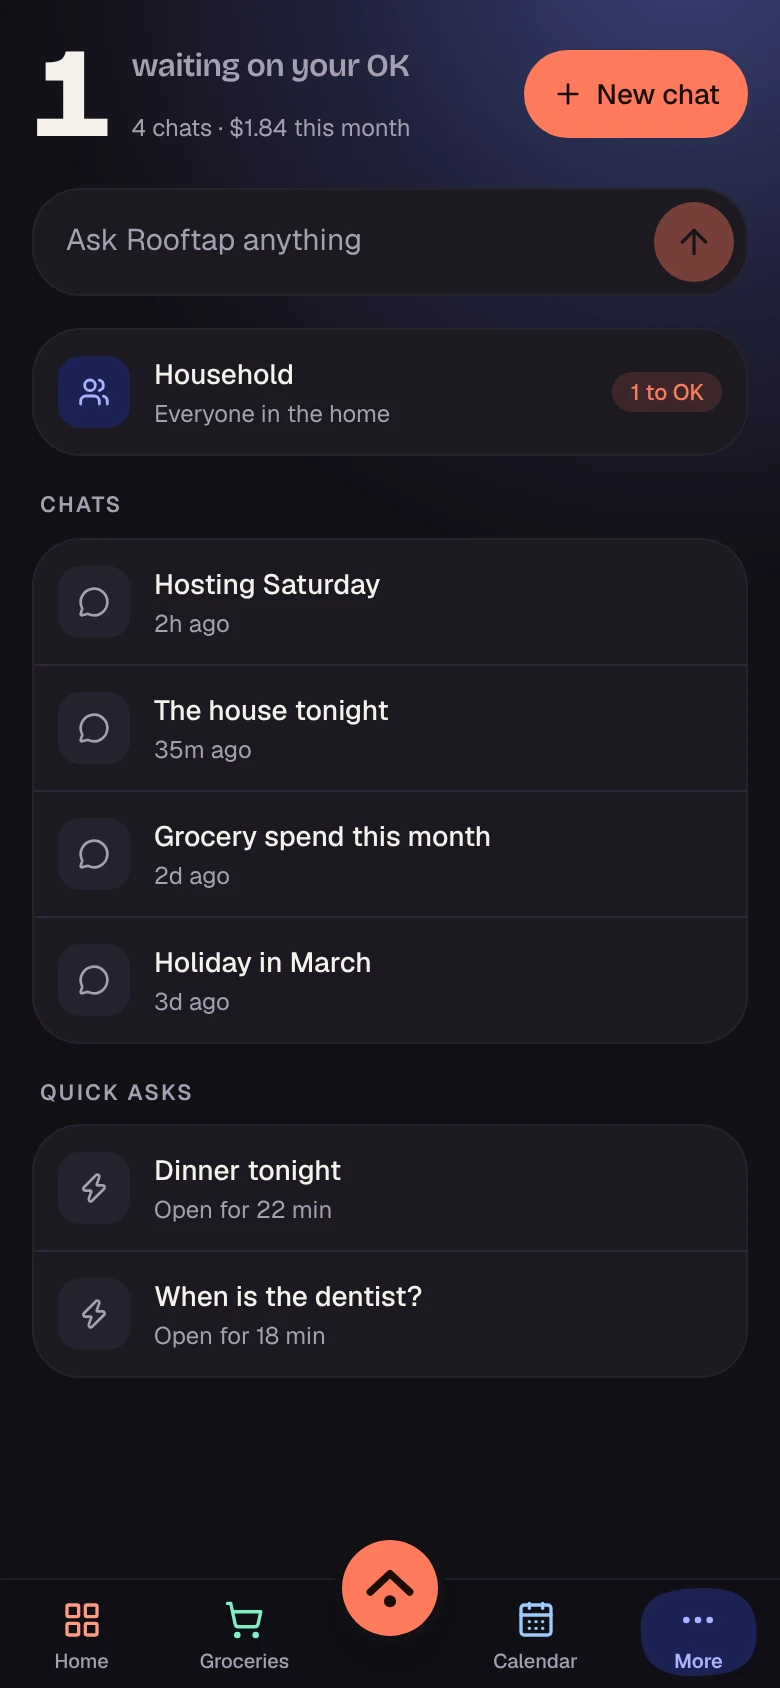
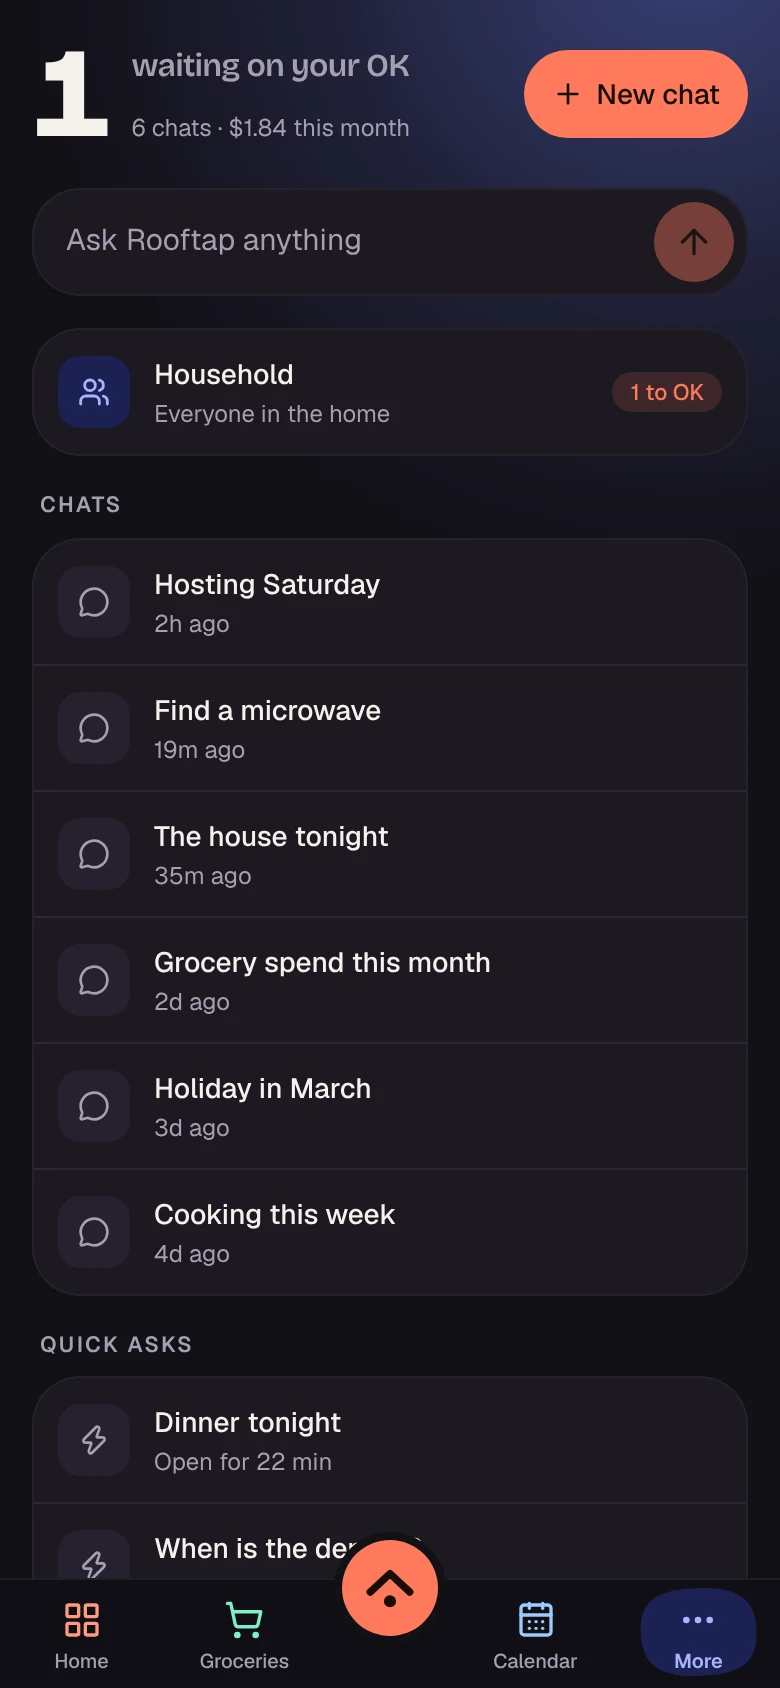
Sync from upstream 89a2d52

diff --git a/apps/web/landing-static/demo/fixtures.ts b/apps/web/landing-static/demo/fixtures.ts
@@ -26,6 +26,7 @@ import type {
   ShopperOffer,
   ShopperPick,
   ShopperPriceSnapshot,
+  ScoutMessage,
   ShopperSearch,
   ShopperWant,
   UserSettings,
@@ -840,6 +841,7 @@ export const assistantConversations: AssistantConversation[] = [
   conv("conv-holiday", "chat", "Holiday in March", 3 * 24 * 60),
   conv("conv-spend", "chat", "Grocery spend this month", 2 * 24 * 60),
   conv("conv-week", "chat", "Cooking this week", 4 * 24 * 60),
+  conv("conv-microwave", "chat", "Find a microwave", 19),
   // Quick asks still open, so each one shows its answer and takes a follow-up.
   conv("conv-dinner", "quick", "Dinner tonight", 8, { closes_at: minutesFromNow(22) }),
   conv("conv-dentist", "quick", "When is the dentist?", 12, { closes_at: minutesFromNow(18) }),
@@ -956,6 +958,82 @@ const dentistChat: AssistantMessage[] = [
   msg("q-2", "assistant", 12, `**Dentist** is on ${new Date(now.getTime() + 2 * 86_400_000).toLocaleDateString("en-AU", { weekday: "long" })} at 2:30 PM. Travel is about 28 minutes, so leave by 2 PM.`),
 ];
 
+// ── Scout thread ─────────────────────────────────────────────────────────────
+// A microwave brief the Assistant started, a question, then a change that
+// searched again. Its own run so the TV run's frames stay as they are.
+
+/** The Scout run the Assistant started: two picks, both over the $120 budget. */
+export const scoutMicrowave: ShopperSearch = {
+  id: "scout-mw",
+  group_id: GROUP,
+  brief: { text: "A 25 litre microwave for reheating and defrosting", budget_min_cents: null, budget_max_cents: 12000, need_by: null, where: ["nearby", "online"] },
+  status: "done",
+  error: null,
+  stores_checked: 15,
+  key_source: "household",
+  created_by: AVA,
+  created_at: minutesAgo(19),
+  updated_at: minutesAgo(18),
+  finished_at: minutesAgo(18),
+  thread_id: null,
+  deleted: false,
+};
+
+/** The run Scout started when Ava changed the search. */
+export const scoutMicrowaveGrill: ShopperSearch = {
+  ...scoutMicrowave,
+  id: "scout-mw-2",
+  brief: { ...scoutMicrowave.brief, text: "A 25 litre microwave with a grill, for reheating and defrosting", budget_max_cents: 16000 },
+  stores_checked: 12,
+  created_at: minutesAgo(4),
+  updated_at: minutesAgo(3),
+  finished_at: minutesAgo(3),
+  thread_id: "scout-mw",
+};
+
+const mwPick = (search: ShopperSearch, rank: number, label: string, title: string, why: string, cents: number, store: string, extra: Partial<ShopperPick> = {}): ShopperPick => ({
+  ...pick(rank, label, title, why, cents, store, extra),
+  id: `pick-${search.id}-${rank}`,
+  search_id: search.id,
+  created_at: search.created_at,
+  updated_at: search.created_at,
+});
+
+export const scoutMicrowavePicks: ShopperPick[] = [
+  mwPick(scoutMicrowave, 1, "best value", "LG NeoChef 25L Smart Inverter", "The closest to the budget, with even inverter defrosting. It is $25 over.", 14500, "Go Get Appliances", { stretch: true }),
+  mwPick(scoutMicrowave, 2, "other brand", "Panasonic NN-ST34NB 25L 900W", "A current model from a well regarded brand. It is $39 over, so choose it only if brand matters more than price.", 15900, "DMS Appliances", { stretch: true }),
+  mwPick(scoutMicrowaveGrill, 1, "best value", "Sharp 25L Grill Microwave", "25 litres with a grill, and in stock nearby. $21 under the new budget.", 13900, "Bing Lee"),
+  mwPick(scoutMicrowaveGrill, 2, "best grill", "Panasonic NN-GT35NB 23L Grill", "The best grill of the three, a little smaller at 23 litres.", 14800, "JB Hi-Fi"),
+  mwPick(scoutMicrowaveGrill, 3, "biggest", "LG NeoChef 39L Smart Inverter Grill", "The biggest, for whole dinner plates and casserole dishes.", 15900, "Harvey Norman", { in_stock: null }),
+];
+
+export const scoutMicrowaveMessages: ScoutMessage[] = [
+  { id: "sm-1", group_id: GROUP, thread_id: "scout-mw", role: "user", text: "Why is there nothing under $120?", pick_id: null, search_id: null, created_by: AVA, created_at: minutesAgo(9), updated_at: minutesAgo(9), deleted: false },
+  {
+    id: "sm-2",
+    group_id: GROUP,
+    thread_id: "scout-mw",
+    role: "scout",
+    text: "The cheapest 25 litre inverter microwaves start at $139 today. Under $120 I only found 20 litre models. If 20 litres is fine I can search for those. Otherwise pick 1 is the closest at $145.",
+    pick_id: null,
+    search_id: null,
+    created_by: AVA,
+    created_at: minutesAgo(8),
+    updated_at: minutesAgo(8),
+    deleted: false,
+  },
+  { id: "sm-3", group_id: GROUP, thread_id: "scout-mw", role: "user", text: "OK, go up to $160, but it needs a grill", pick_id: null, search_id: null, created_by: AVA, created_at: minutesAgo(5), updated_at: minutesAgo(5), deleted: false },
+  { id: "sm-4", group_id: GROUP, thread_id: "scout-mw", role: "scout", text: "Searching again: up to $160, with a grill.", pick_id: null, search_id: "scout-mw-2", created_by: AVA, created_at: minutesAgo(4), updated_at: minutesAgo(4), deleted: false },
+];
+
+/** A named chat where Ava asked the Assistant to find a microwave, and it started Scout. */
+const microwaveChat: AssistantMessage[] = [
+  msg("k-1", "user", 20, "Can you find us a microwave? About 25 litres, under $120.", { author: "Ava" }),
+  msg("k-2", "assistant", 19, "I asked Scout to look. It checks your stores and comes back in about a minute with up to three picks. [Open Scout](/shopper/scout/scout-mw)", {
+    proposal: proposal("confirmed", [["start_scout", "shopper", { text: "A 25 litre microwave" }, 'Ask Scout to find "A 25 litre microwave"']]),
+  }),
+];
+
 /** Each conversation's messages, by conversation id. */
 export const assistantMessages: Record<string, AssistantMessage[]> = {
   "conv-household": householdThread,
@@ -966,6 +1044,7 @@ export const assistantMessages: Record<string, AssistantMessage[]> = {
   "conv-dinner": dinnerChat,
   "conv-dentist": dentistChat,
   "conv-week": weekChat,
+  "conv-microwave": microwaveChat,
 };
 
 /** Home Assistant, connected through its MCP Server integration, under Act. */

diff --git a/apps/web/landing-static/demo/fetch-shim.ts b/apps/web/landing-static/demo/fetch-shim.ts
@@ -4,6 +4,10 @@ import { chat, decide, getConversation, listConversations, updateConversation } 
 import {
   homeAssistantStatus,
   homeAssistantTools,
+  scoutMicrowave,
+  scoutMicrowaveGrill,
+  scoutMicrowaveMessages,
+  scoutMicrowavePicks,
   scoutPicks,
   shopperWants,
   scoutSearch,
@@ -43,7 +47,7 @@ function scoutFollowUp(url: URL, init?: RequestInit) {
 
 /** Watch the price on a demo pick: the item it is already on, or a new one shaped like it. */
 function scoutWatch(pickId: string) {
-  const pick = scoutPicks.find((p) => p.id === pickId);
+  const pick = [...scoutPicks, ...scoutMicrowavePicks].find((p) => p.id === pickId);
   const known = shopperWants.find((w) => w.id === pick?.want_id);
   const tv = shopperWants.find((w) => w.id === "w-tv")!;
   return { want: known ?? { ...tv, id: `w-${pickId}`, title: pick?.title ?? tv.title, query: pick?.title ?? tv.title, notes: pick?.why ?? null } };
@@ -143,6 +147,14 @@ const answers: [RegExp, Answer][] = [
   [/^\/api\/shopper\/scout\/picks\//, (url) => scoutWatch(url.pathname.split("/").pop() ?? "")],
   [/^\/api\/shopper\/scout\/[^/]+\/messages/, scoutFollowUp],
   [/^\/api\/shopper\/scout\/scout-tv/, () => ({ search: scoutSearch, picks: scoutPicks })],
+  [
+    /^\/api\/shopper\/scout\/scout-mw/,
+    () => ({
+      search: scoutMicrowave,
+      picks: scoutMicrowavePicks.filter((p) => p.search_id === scoutMicrowave.id),
+      thread: { runs: [scoutMicrowave, scoutMicrowaveGrill], picks: scoutMicrowavePicks, messages: scoutMicrowaveMessages },
+    }),
+  ],
   [/^\/api\/shopper\/lookup/, () => ({ offers: 5, sources: ["serpapi-google-shopping"], failed: [] })],
   // Assistant.
   [/^\/api\/assistant\/status/, () => assistantStatus],

diff --git a/apps/web/src/components/landing/module-map-data.ts b/apps/web/src/components/landing/module-map-data.ts
@@ -7,7 +7,7 @@ import type { ScreenId } from "./screens";
 // module-map-data.test.ts fails when a two-module feature has no line here,
 // or a line names a feature that does not join its two modules.
 
-export type MapModule = Exclude<ModuleId, "assistant" | "mcp">;
+export type MapModule = Exclude<ModuleId, "mcp">;
 
 /** Short names: the map has no room for "Tasks & Reminders". */
 export const MAP_LABEL: Record<MapModule, string> = {
@@ -23,6 +23,7 @@ export const MAP_LABEL: Record<MapModule, string> = {
   shopper: "Shopper",
   rewards: "Rewards",
   "google-calendar": "Google Calendar",
+  assistant: "Assistant",
 };
 
 /** The section whose hue a module's tile takes. */
@@ -44,6 +45,7 @@ export const POS: Record<MapModule, { wide: [number, number]; tall: [number, num
   rewards: { wide: [130, 420], tall: [62, 530] },
   groceries: { wide: [400, 420], tall: [62, 360] },
   recipes: { wide: [650, 420], tall: [180, 530] },
+  assistant: { wide: [290, 330], tall: [62, 262] },
 };
 
 export interface MapShot {
@@ -146,6 +148,16 @@ export const MAP_LINKS: readonly MapLink[] = [
     features: ["shopper.costs"],
     text: "Plan to buy on a Shopper item adds a planned one-off cost to the budget.",
     shots: [{ scene: "shopper-item-buy", mark: "plan" }],
+  },
+  {
+    a: "assistant",
+    b: "shopper",
+    features: ["shopper.assistant-scout"],
+    text: "Ask the Assistant to find something and it starts a Scout search. On the search you ask about a pick or change what you want, and new picks land below.",
+    shots: [
+      { scene: "assistant-scout", mark: "open" },
+      { scene: "shopper-scout-thread", mark: "again" },
+    ],
   },
   {
     a: "calendar",

diff --git a/apps/web/src/components/landing/screens.ts b/apps/web/src/components/landing/screens.ts
@@ -44,12 +44,14 @@ export const SCREEN_IDS = [
   "shopper-scout-list",
   "shopper-scout",
   "shopper-scout-pick",
+  "shopper-scout-thread",
   "rewards",
   "rewards-store",
   "rewards-card",
   "rewards-perks",
   "assistant",
   "assistant-household",
+  "assistant-scout",
   "assistant-telegram",
   "assistant-house",
   "assistant-hosting",
@@ -109,6 +111,8 @@ export const SCREEN_ALT: Record<ScreenId, string> = {
   "shopper-scout-list": "The Shopper screen scrolled to its Scout runs: a TV for the lounge, three picks",
   "shopper-scout": "A Scout run for a lounge TV under 2,000 dollars: 14 stores checked, three picks with their role, store, stock and price",
   "shopper-scout-pick": "The best value pick: a Hisense 65 inch TV at JB Hi-Fi for 1,495 dollars, why it fits, its sources, and Watch the price",
+  "shopper-scout-thread": "A Scout thread for a microwave: Ava asks why nothing is under 120 dollars, Scout answers, then she raises the budget to 160 and asks for a grill, and three new picks follow",
+  "assistant-scout": "An Assistant chat: Ava asks it to find a 25 litre microwave under 120 dollars, and it starts a Scout search with a link to open it",
   rewards: "Rewards: four cards as card faces, Costco, Everyday Rewards, Flybuys and IKEA Family, that work at 12 stores, with a store search on top",
   "rewards-store": "Rewards looked up for Officeworks: Flybuys works there with 10 percent off, and a Show Flybuys card button",
   "rewards-card": "The Flybuys card: its barcode and number, its perks at Officeworks and Kmart, and its 6 stores",

diff --git a/apps/web/landing-static/demo/scenes.tsx b/apps/web/landing-static/demo/scenes.tsx
@@ -302,6 +302,21 @@ export const SCENES: Scene[] = [
     actions: [{ click: "text=Hisense 65" }, { wait: 700 }],
     marks: { watch: "text=Watch the price", why: "text=Bright enough for a sunny room" },
   },
+  // A Scout thread: a question answered, then a change that searched again.
+  {
+    id: "shopper-scout-thread",
+    path: "/shopper/scout/scout-mw",
+    params: { id: "scout-mw" },
+    page: ScoutRun,
+    actions: [{ scroll: 2000 }, { wait: 400 }],
+    marks: {
+      ask: ["text=Why is there nothing under $120?", 1],
+      answer: "text=/cheapest 25 litre/",
+      again: "text=Searching again",
+      grill: '[class*="list-item"]:has-text("Sharp 25L")',
+      composer: "textarea",
+    },
+  },
 
   // Rewards: the wallet, a store lookup, the card at the till, and the perks.
   {
@@ -364,6 +379,14 @@ export const SCENES: Scene[] = [
     page: AssistantThread,
     actions: [{ scroll: 2000 }, { wait: 400 }],
     marks: { garage: ["text=Turn off \"Garage door\" in Home Assistant", 1], porch: ["text=Turn on \"Porch light\" in Home Assistant", 3], ask: ["text=Turn on the porch light", 1] },
+  },
+  // A named chat where the assistant started a Scout search.
+  {
+    id: "assistant-scout",
+    path: "/assistant/conv-microwave",
+    params: { id: "conv-microwave" },
+    page: AssistantThread,
+    marks: { ask: ["text=Can you find us a microwave", 1], scout: ["text=Ask Scout to find", 3], open: 'p:has-text("I asked Scout to look")' },
   },
   // A named chat that planned Saturday across Recipes, Checklists and Tasks.
   {

diff --git a/apps/web/src/components/landing/stories.tsx b/apps/web/src/components/landing/stories.tsx
@@ -417,7 +417,20 @@ export const SHOPPER_STORY: Story = {
           { at: 1200, highlight: at("b", m("shopper-scout-list", "tv")) },
           { at: 3400, highlight: null },
         ]),
-        fact("Your key or Plus.", "Scout runs on the household's own AI key. On the hosted service it uses the Plus allowance."),
+        play("Ask, or change the search.", "Ask about the picks and Scout answers from what it found. Raise the budget or add a must-have, and it searches again with the new picks below.", [
+          { at: 0, show: { a: "shopper-scout-thread" } },
+          { at: 300, highlight: at("a", m("shopper-scout-thread", "answer")) },
+          { at: 2400, highlight: at("a", m("shopper-scout-thread", "again")) },
+          { at: 3600, highlight: at("a", m("shopper-scout-thread", "grill"), true) },
+          { at: 5400, highlight: null },
+        ]),
+        play("Or ask the Assistant.", "Ask the Assistant to find something. It starts the Scout search for you and links to the picks.", [
+          { at: 0, show: { b: "assistant-scout" } },
+          { at: 200, pop: "b" },
+          { at: 500, highlight: at("b", m("assistant-scout", "open")) },
+          { at: 2800, highlight: null },
+        ]),
+        fact("Your key or Plus.", "Scout runs on the household's own AI key. On the hosted service it uses the Plus allowance. Questions about the picks do not count toward it."),
       ],
       a: "shopper-scout-list",
       b: "shopper-scout-pick",

diff --git a/apps/web/landing-static/demo/assistant-demo.ts b/apps/web/landing-static/demo/assistant-demo.ts
@@ -83,6 +83,13 @@ interface Scenario {
 
 const scenarios: Scenario[] = [
   {
+    test: /\bfind\b|\bbuy\b|scout|shop for|look for|new (?:tv|microwave|fridge|kettle|vacuum)/i,
+    answer: () => ({
+      content: "I asked Scout to look. It checks your stores and comes back in about a minute with up to three picks. [Open Scout](/shopper/scout/scout-mw)",
+      proposal: { state: "confirmed", items: items([["start_scout", "shopper", { text: "A 25 litre microwave" }, 'Ask Scout to find "A 25 litre microwave"']]) },
+    }),
+  },
+  {
     test: /spen[dt]|budget|afford|how much|cost|bills?\b|money/i,
     answer: () => ({
       content:
@@ -167,7 +174,7 @@ const scenarios: Scenario[] = [
 
 const HELP: Answer = {
   content:
-    "This demo answers a few things the way your Assistant would. Try:\n\n- Add milk and bread to the list\n- What can we cook tonight?\n- Turn off the lights\n- Is the house locked?\n- Remind Noa to clean the gutters tomorrow\n- How much have we spent this month?\n- What's on this week?",
+    "This demo answers a few things the way your Assistant would. Try:\n\n- Add milk and bread to the list\n- What can we cook tonight?\n- Turn off the lights\n- Is the house locked?\n- Remind Noa to clean the gutters tomorrow\n- How much have we spent this month?\n- What's on this week?\n- Find us a microwave under $120",
 };
 
 function answerFor(text: string): Answer {

diff --git a/packages/core/src/module-features.ts b/packages/core/src/module-features.ts
@@ -115,6 +115,10 @@ export const MODULE_FEATURES = {
     modules: ['shopper', 'costs'],
     what: 'A planned one-off cost from Plan to buy on a Shopper item.',
   },
+  'shopper.assistant-scout': {
+    modules: ['shopper', 'assistant'],
+    what: 'Asking the assistant to find something to buy, which starts a Scout search, and reading its picks in a chat.',
+  },
 
   // ── Costs ────────────────────────────────────────────────────────────────
   'costs.from-groceries': {

diff --git a/apps/web/src/components/landing/content.ts b/apps/web/src/components/landing/content.ts
@@ -147,7 +147,7 @@ export const FEATURE_GROUPS: readonly FeatureGroup[] = [
       ["Every store", "price, distance and stock"],
       ["Price sources", "pluggable per region, and open to new ones"],
       ["Plan to buy", "a to-do in Tasks and a planned cost in Costs"],
-      ["Scout", "up to three AI picks for a brief, each with its reason"],
+      ["Scout", "up to three AI picks for a brief, each with its reason, and follow-up questions"],
     ],
   },
   {

diff --git a/apps/web/src/components/landing/module-map.tsx b/apps/web/src/components/landing/module-map.tsx
@@ -241,7 +241,7 @@ export function ModuleMap() {
           <>
             <p className={styles.mapCardPair}>
               <Chip id={pick.module} />
-              <span className={styles.mapCount}>{moduleLinks.length} links</span>
+              <span className={styles.mapCount}>{moduleLinks.length} {moduleLinks.length === 1 ? "link" : "links"}</span>
             </p>
             <ul className={styles.mapList}>
               {moduleLinks.map(([l, i]) => (
